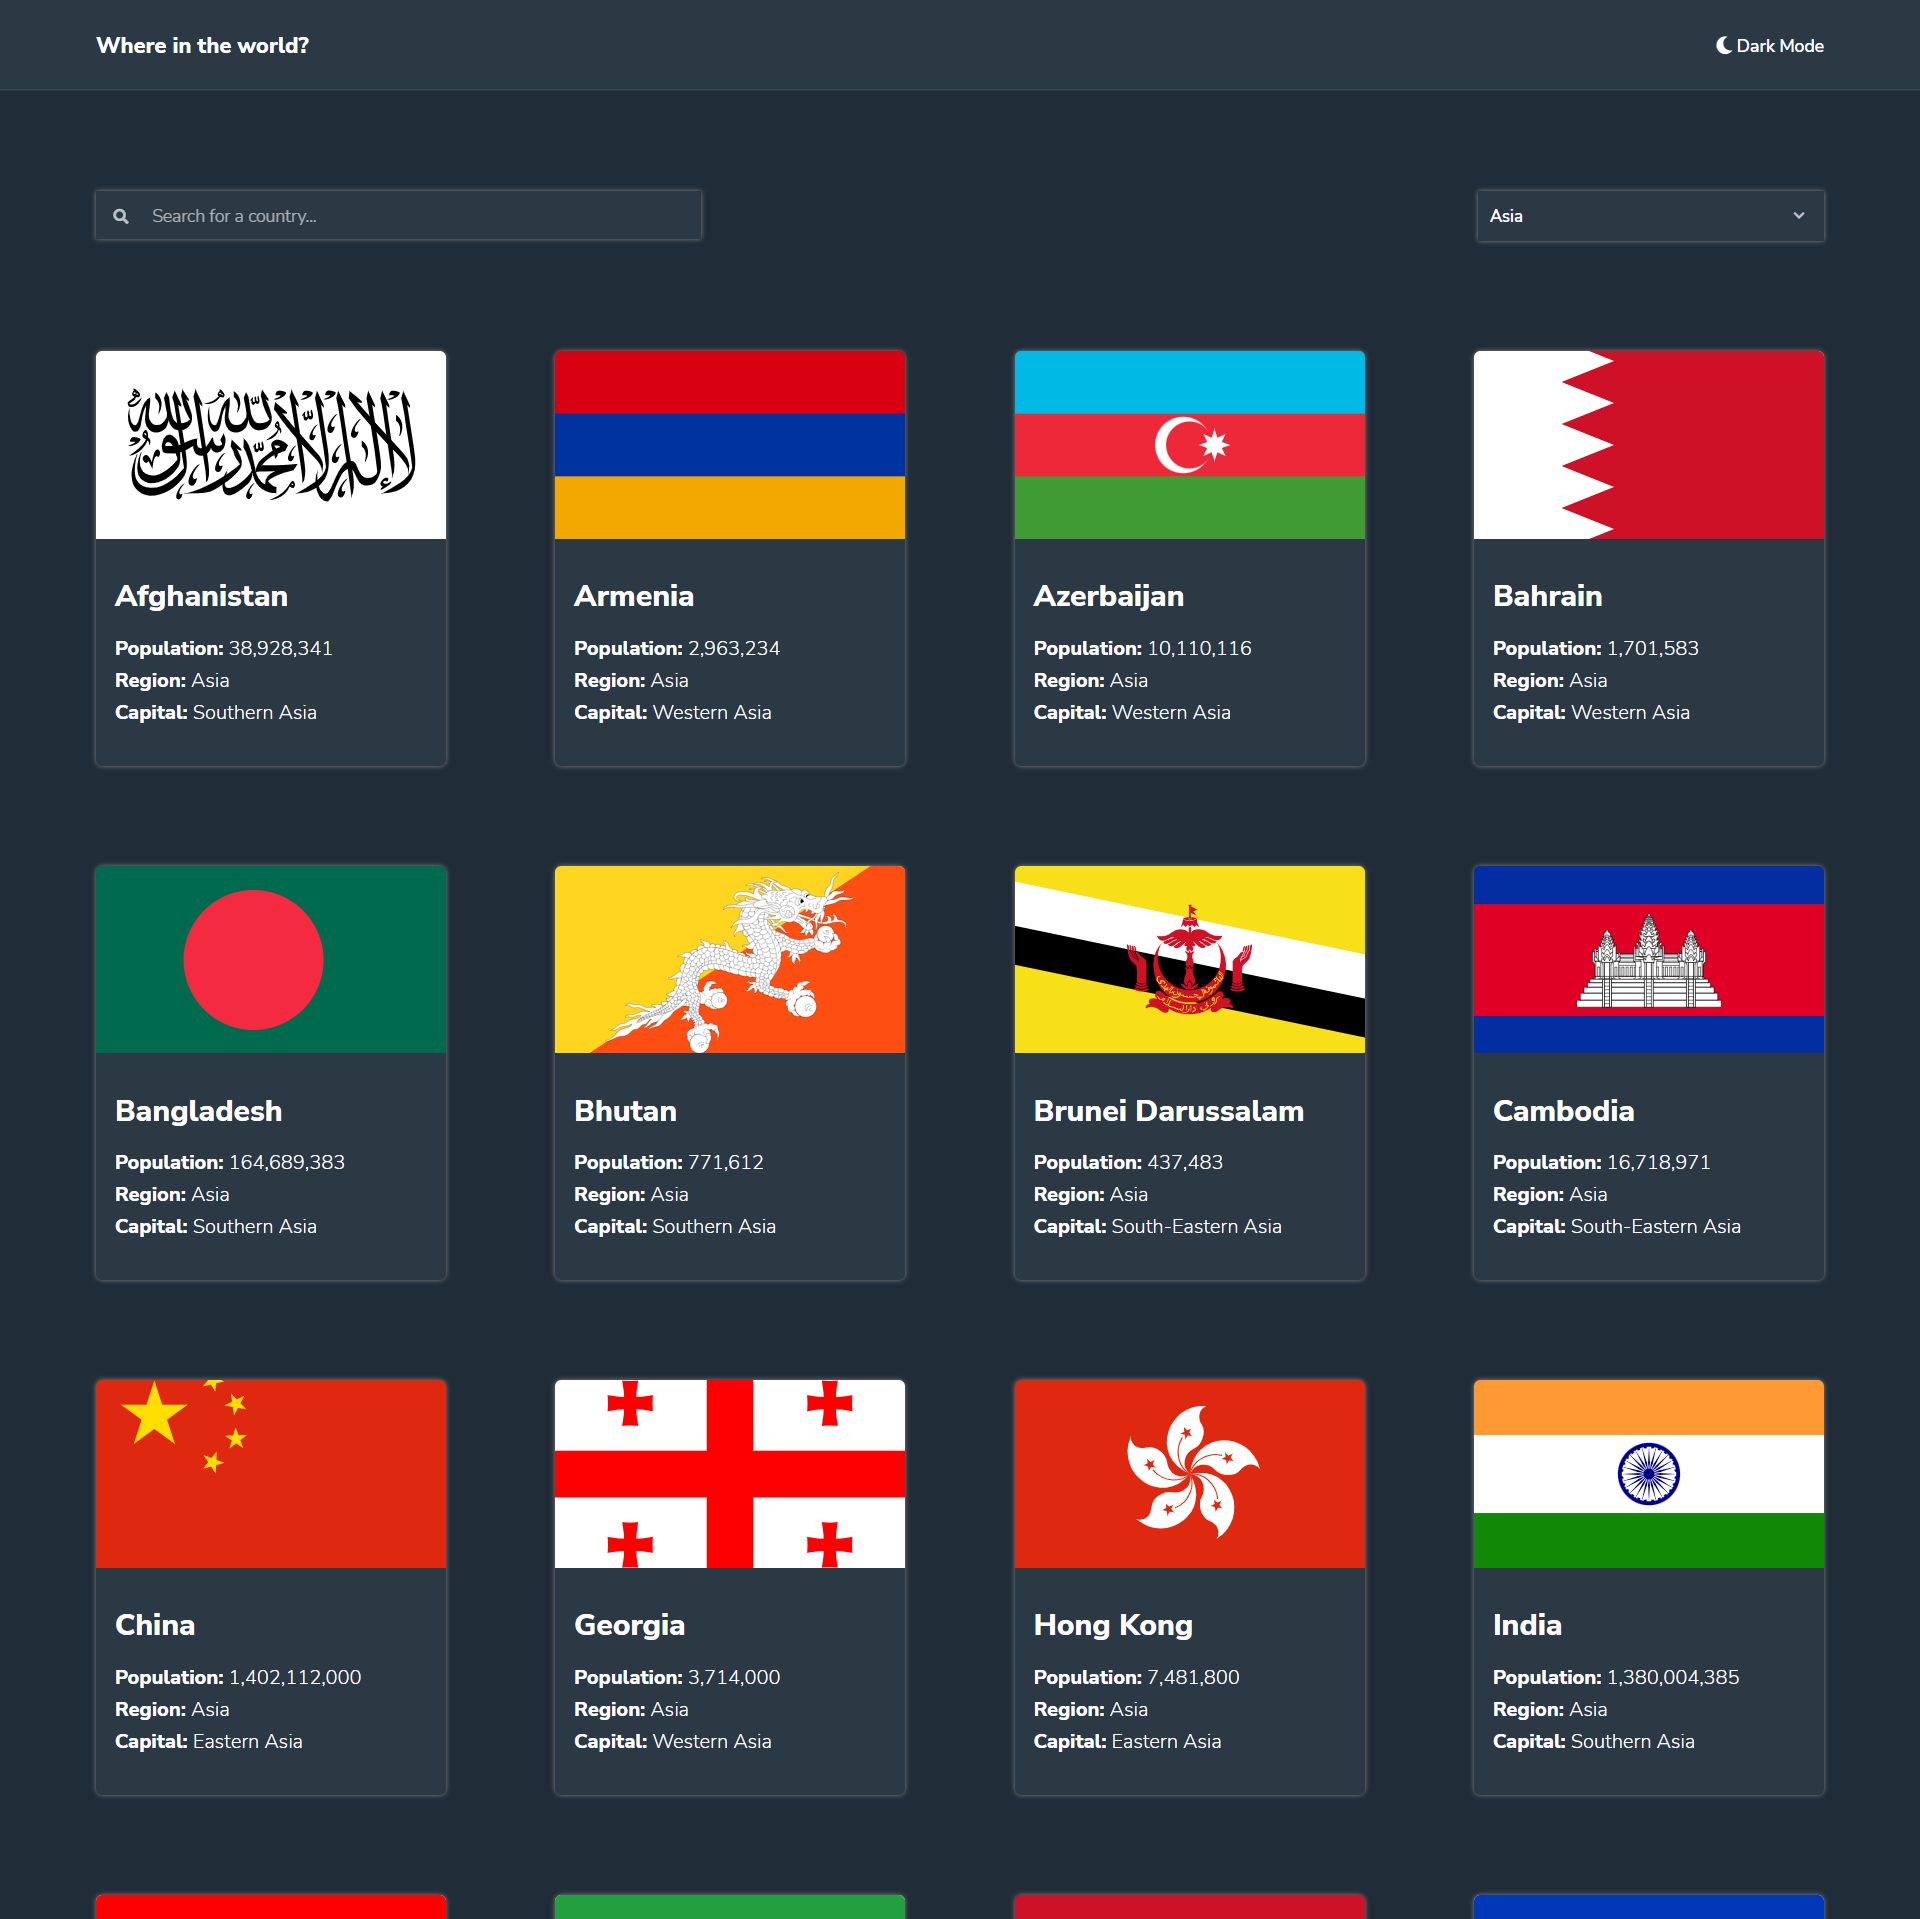
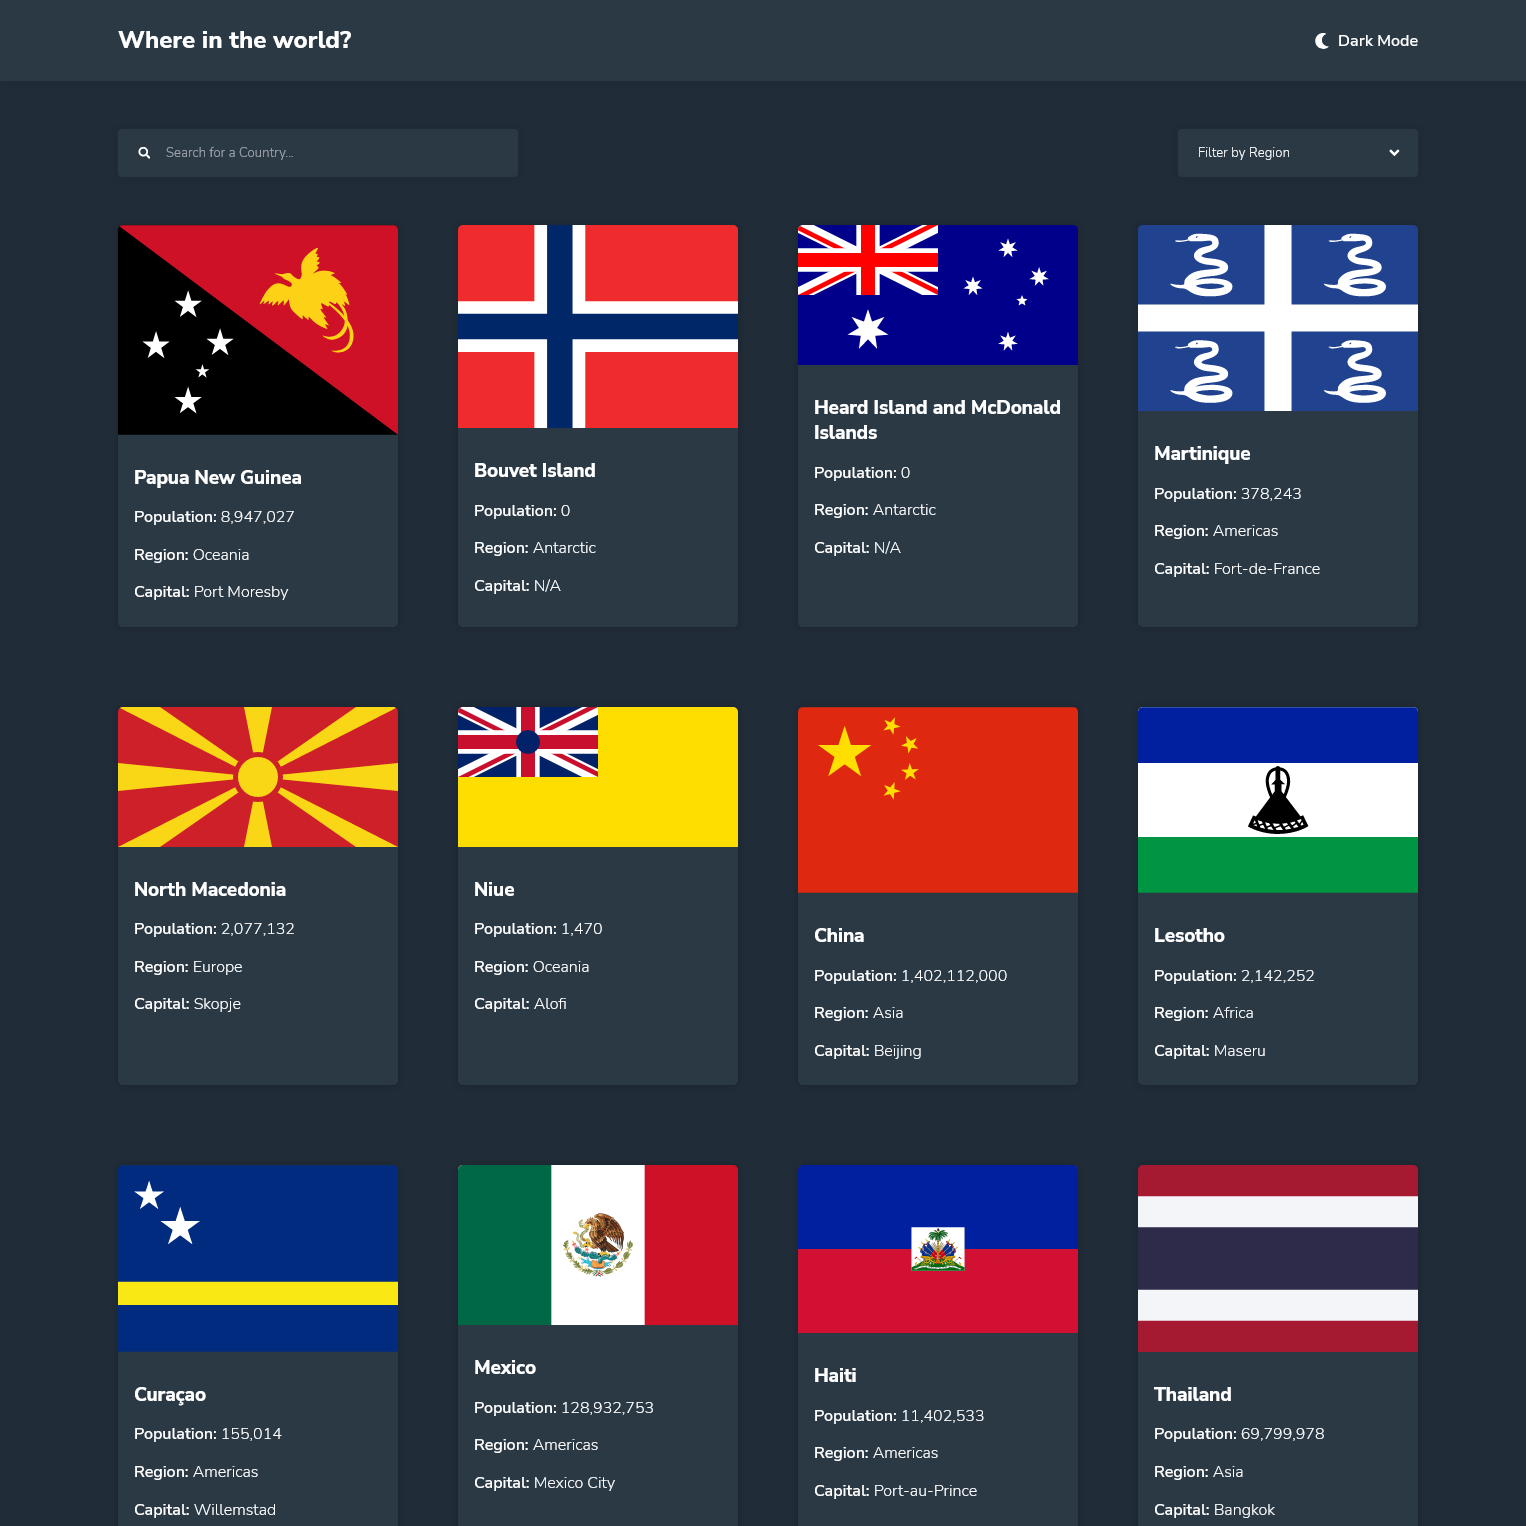
Added Project

diff --git a/index.js b/index.js
@@ -39,9 +39,10 @@ let data = [
   },
   {
     project_image: 'images/projects/where-in-the-world.png',
-    project_name: 'Where in the World',
-    project_live: 'https://soumya495.github.io/Where-in-the-world/',
-    project_repo: 'https://github.com/soumya495/Where-in-the-world',
+    project_name: 'Rest Coutries API',
+    project_live: 'https://soumya-rest-countries-api.netlify.app/',
+    project_repo: 'https://github.com/soumya495/rest-countries-api',
+    react: true,
   },
   {
     project_image: 'images/projects/ig-ui.png',
